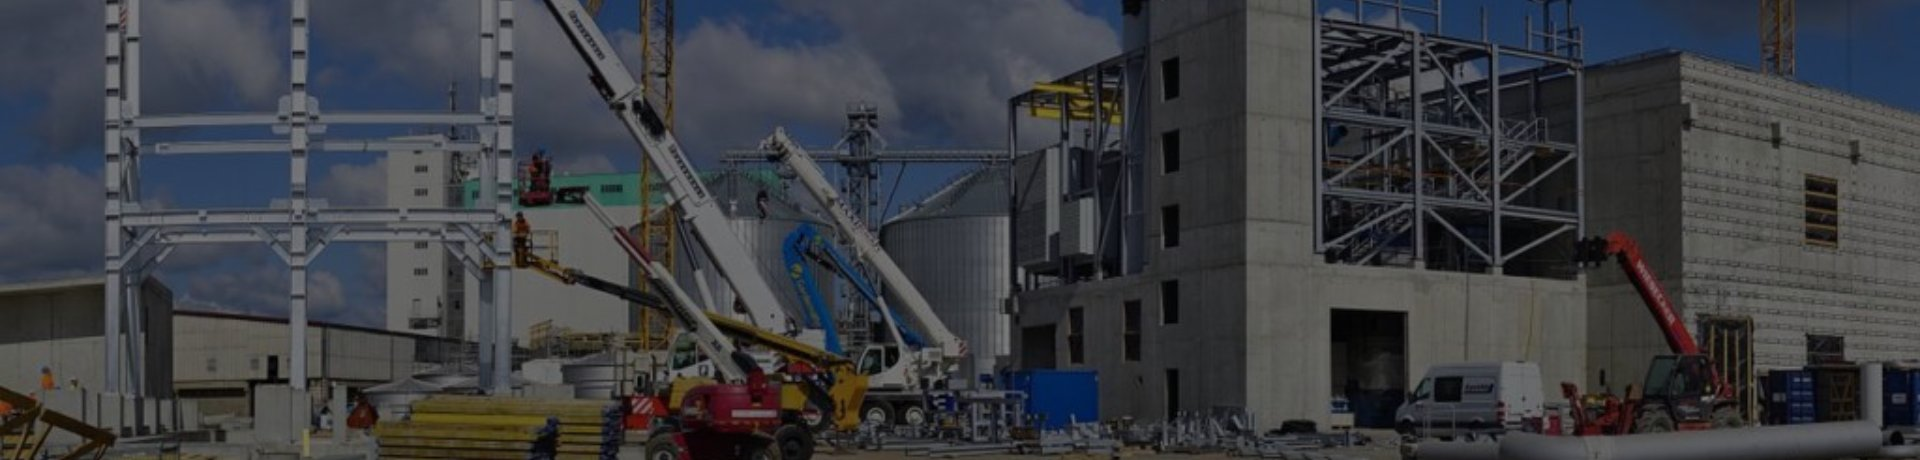
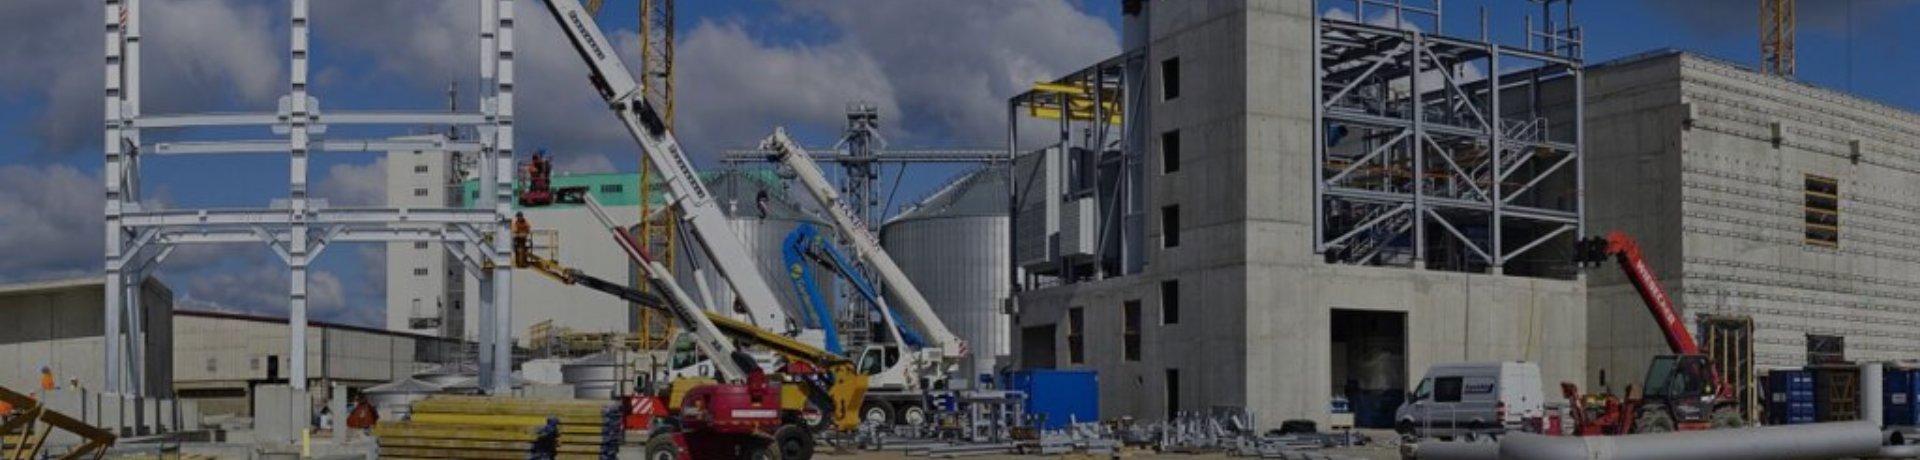
Se agrega bg en cada página

diff --git a/modules/bienes.php b/modules/bienes.php
@@ -1,5 +1,5 @@
 <!-- Start Subheader -->
-<div class="normal-bg subheader" style="background-image: url('assets/images/subheader.jpg');">
+<div class="normal-bg subheader" style="background-image: url('/assets/images/subheader.jpg?=1');">
     <div class="container">
         <div class="row">
             <div class="col-12">

diff --git a/modules/contacto.php b/modules/contacto.php
@@ -1,5 +1,5 @@
 <!-- Start Subheader -->
-<div class="normal-bg subheader" style="background-image: url('/assets/images/subheader.jpg');">
+<div class="normal-bg subheader" style="background-image: url('/assets/images/contacto.jpg?=1');">
     <div class="container">
         <div class="row">
             <div class="col-12">
